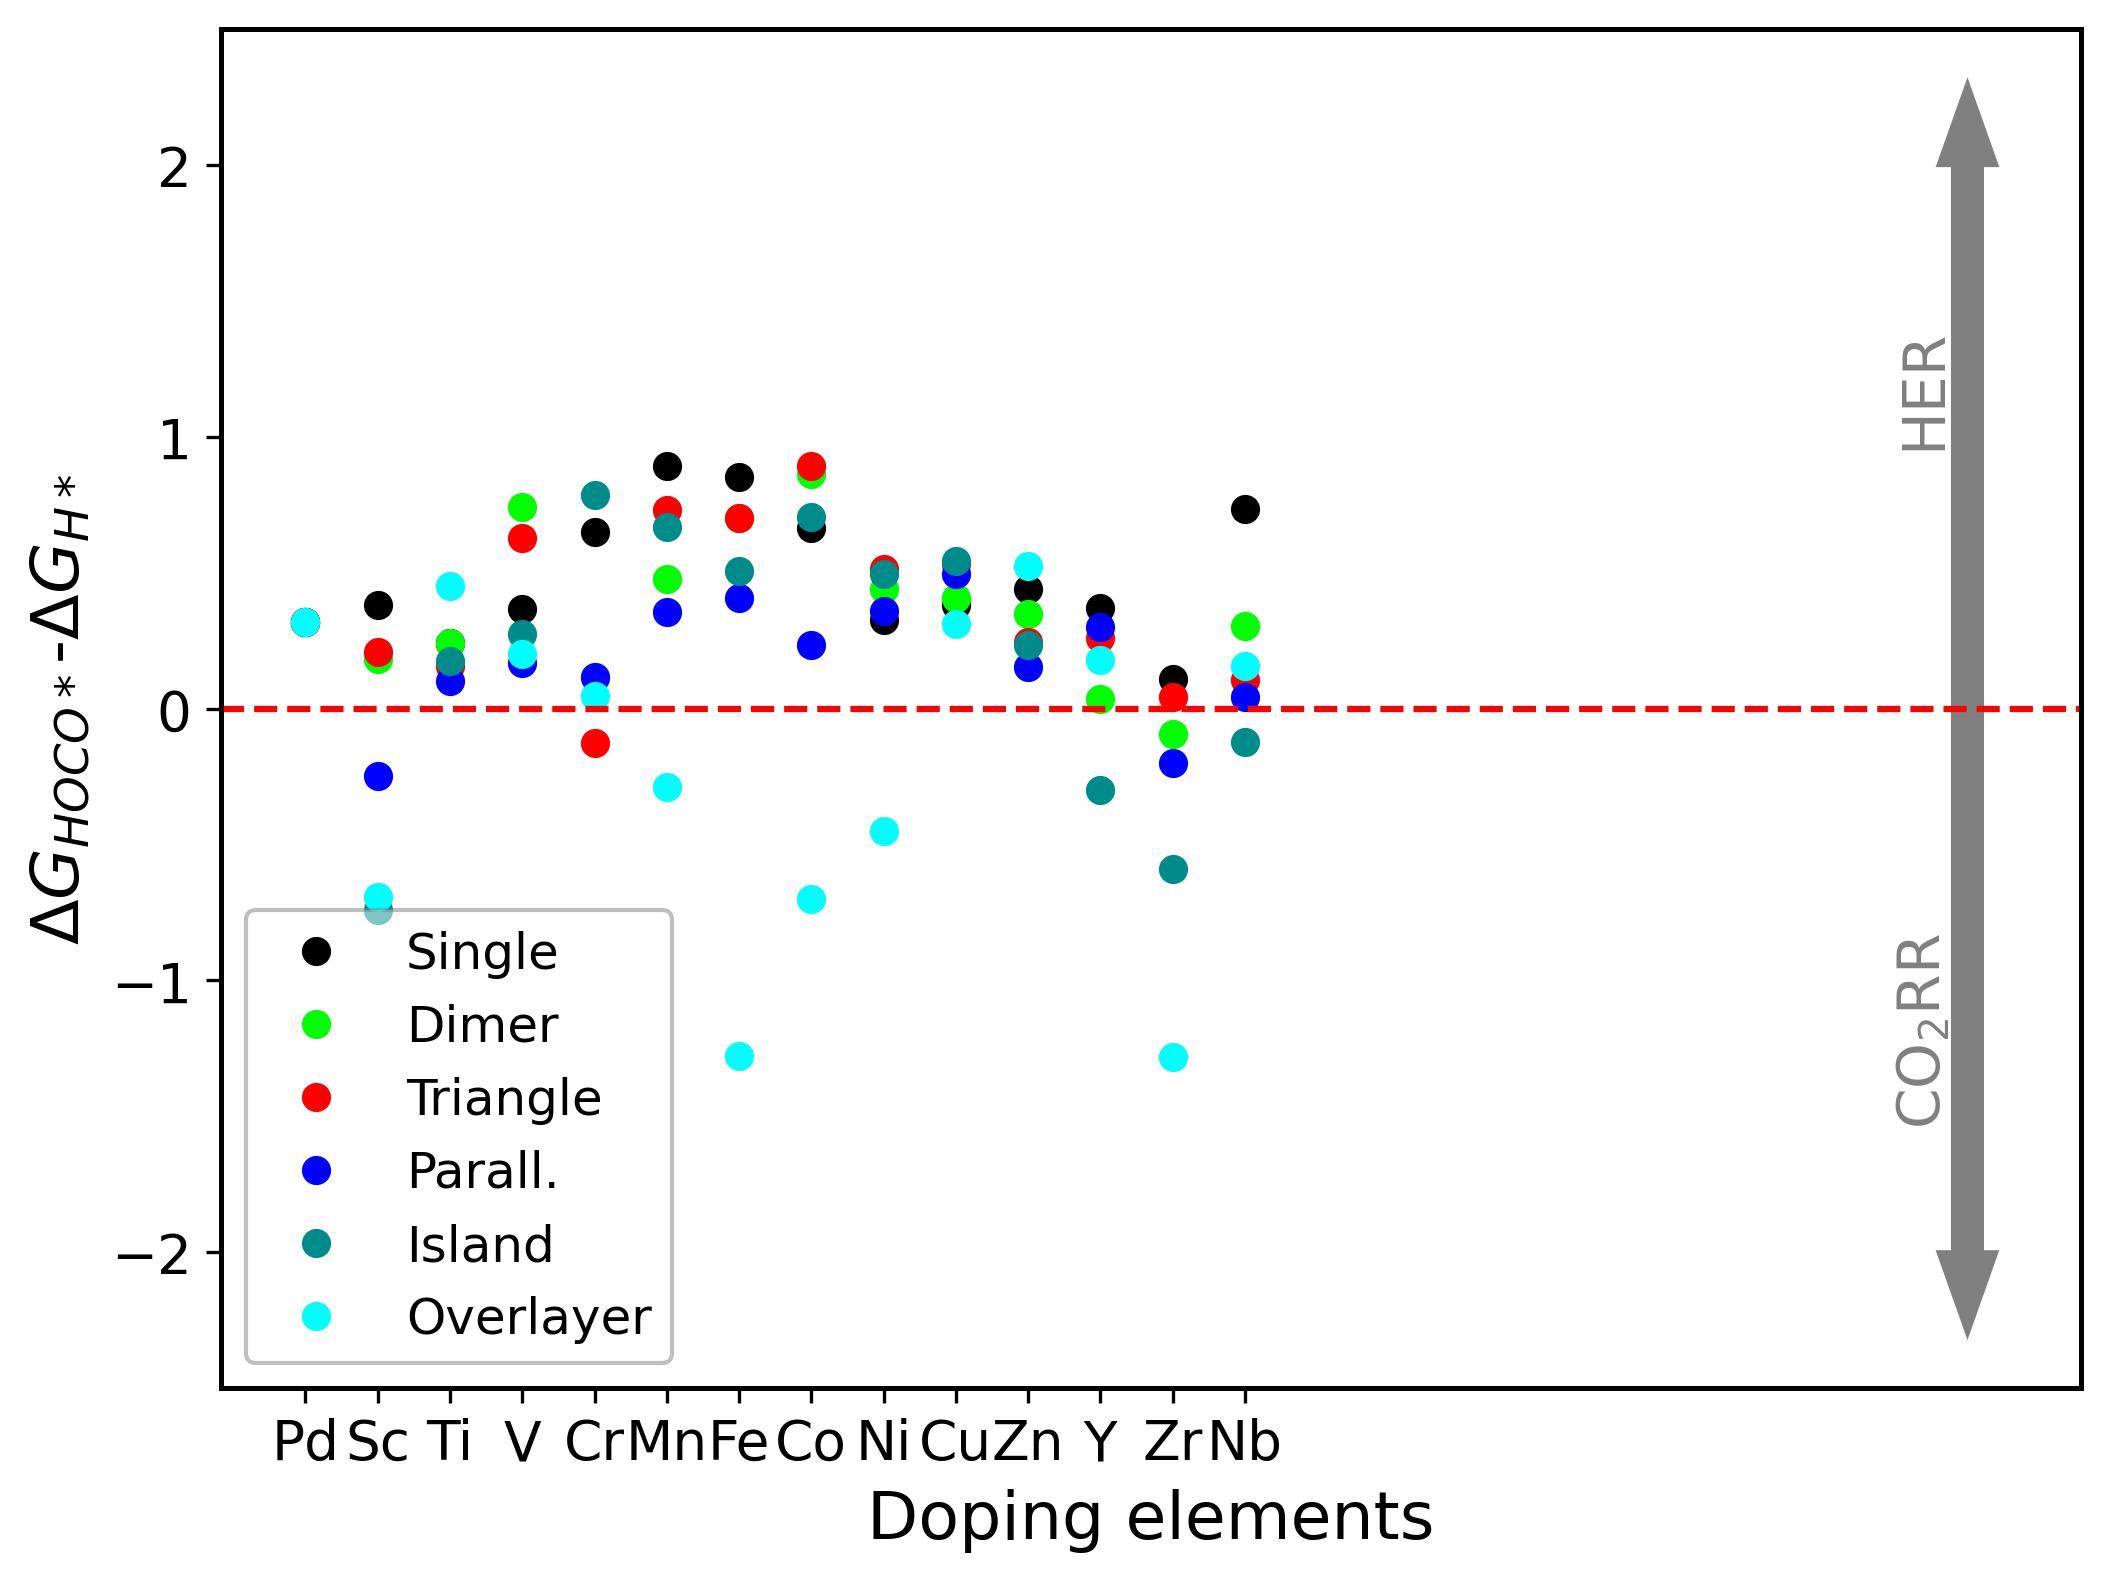
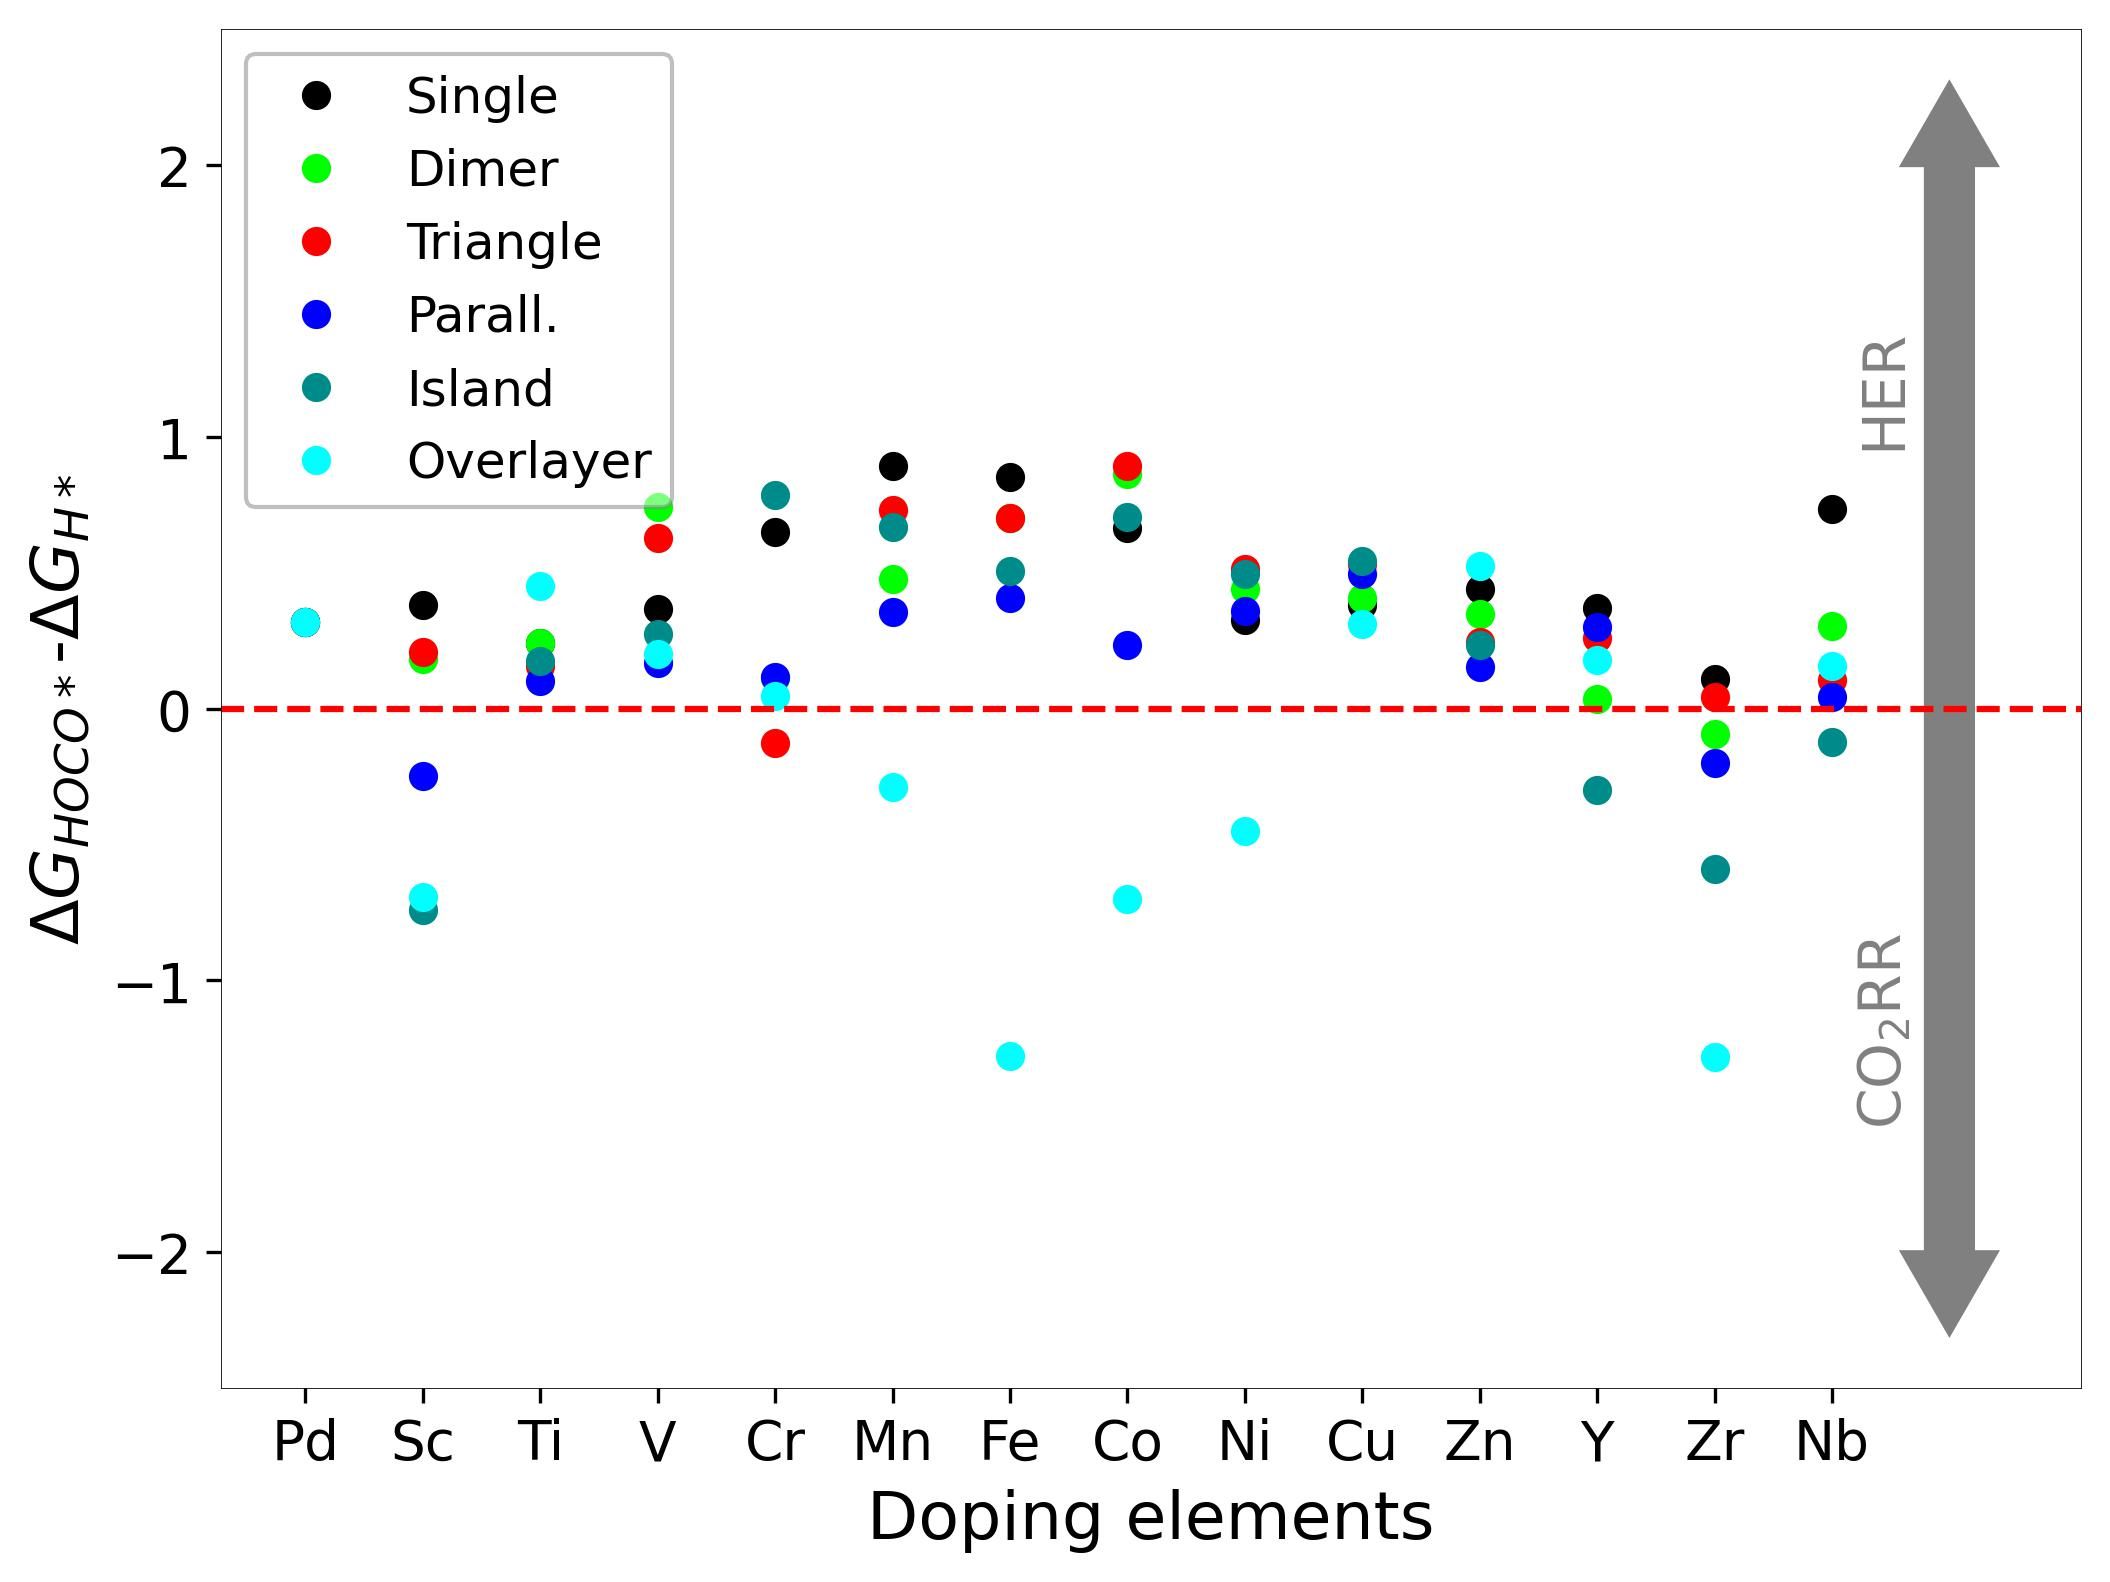
update examples

diff --git a/examples/plot_selectivity.py b/examples/plot_selectivity.py
@@ -39,7 +39,7 @@ def selectivity():
     df = pd_read_excel(filename='./data/data.xlsx', sheet='selectivity')
     df.set_axis(['Single', 'Dimer', 'Triangle', 'Parall.', 'Island', 'Overlayer'], axis='columns', inplace=True)
     selectivity = Selectivity(df, fig_name='./figures/Selectivity_example.jpg')
-    selectivity.plot(save=True, title='')
+    selectivity.plot(save=True, title='', tune_tex_pos=0.8)
 
 if __name__ == '__main__':
     selectivity()
